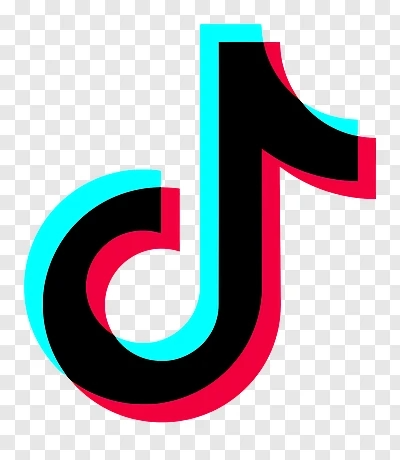
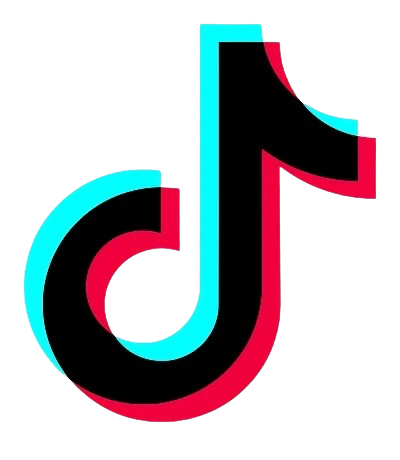
Add new fashion page feature 1

diff --git a/src/ProfileWidget.css b/src/ProfileWidget.css
@@ -1,14 +1,14 @@
 /* src/ProfileWidget.css */
 .profile-widget {
-    display: flex;
-    flex-direction: column;
-    align-items: center;
-  }
-  
-  .profile-image-container {
+  display: flex;
+  flex-direction: column;
+  align-items: center;
+}
+
+.profile-image-container {
   width: 210px;
   height: auto;
-  margin-bottom: 20px;
+  margin-bottom: 0; /* إزالة المسافة تحت الشعار */
   display: flex;
   justify-content: center;
   align-items: center;
@@ -16,18 +16,16 @@
 }
 
 .profile-image {
-  width: 100%; /* بدلاً من 170% */
+  width: 100%;
   height: auto;
   border-radius: 8px;
   object-fit: cover;
 }
 
-  
-  .profile-title {
-    font-size: 1.2rem;
-    font-weight: bold;
-    color: #333;
-    margin: 0;
-    line-height: 1.5;
-  }
-  
+.profile-title {
+  font-size: 1.2rem;
+  font-weight: bold;
+  color: #333;
+  margin: 0;
+  line-height: 1.2; /* تقليل المسافة الرأسية داخل العنوان */
+}

diff --git a/src/App.js b/src/App.js
@@ -6,10 +6,10 @@ import ProfileWidget from './ProfileWidget';
 import LinkItem from './LinkItem';
 
 // Importing images for icons
-import logo from './images/logo.png';                   // Rectangular logo
+import logo from './images/logo2.png';                   // Rectangular logo
 import whatsappGif from './images/whatsapp_icon.gif';     // WhatsApp icon/gif
 import snapchatImg from './images/snapchat.jpeg';         // Snapchat button icon
-import instagramImg from './images/instagram.jpeg';        // Instagram button icon
+import instagramImg from './images/instagram.png';        // Instagram button icon
 import xLogo from './images/X_logo.jpg';                  // Platform X icon
 import locationImg from './images/location.gif';          // Location icon (for both male & female locations)
 import youtubeLogo from './images/Youtube_logo.png';      // YouTube icon
